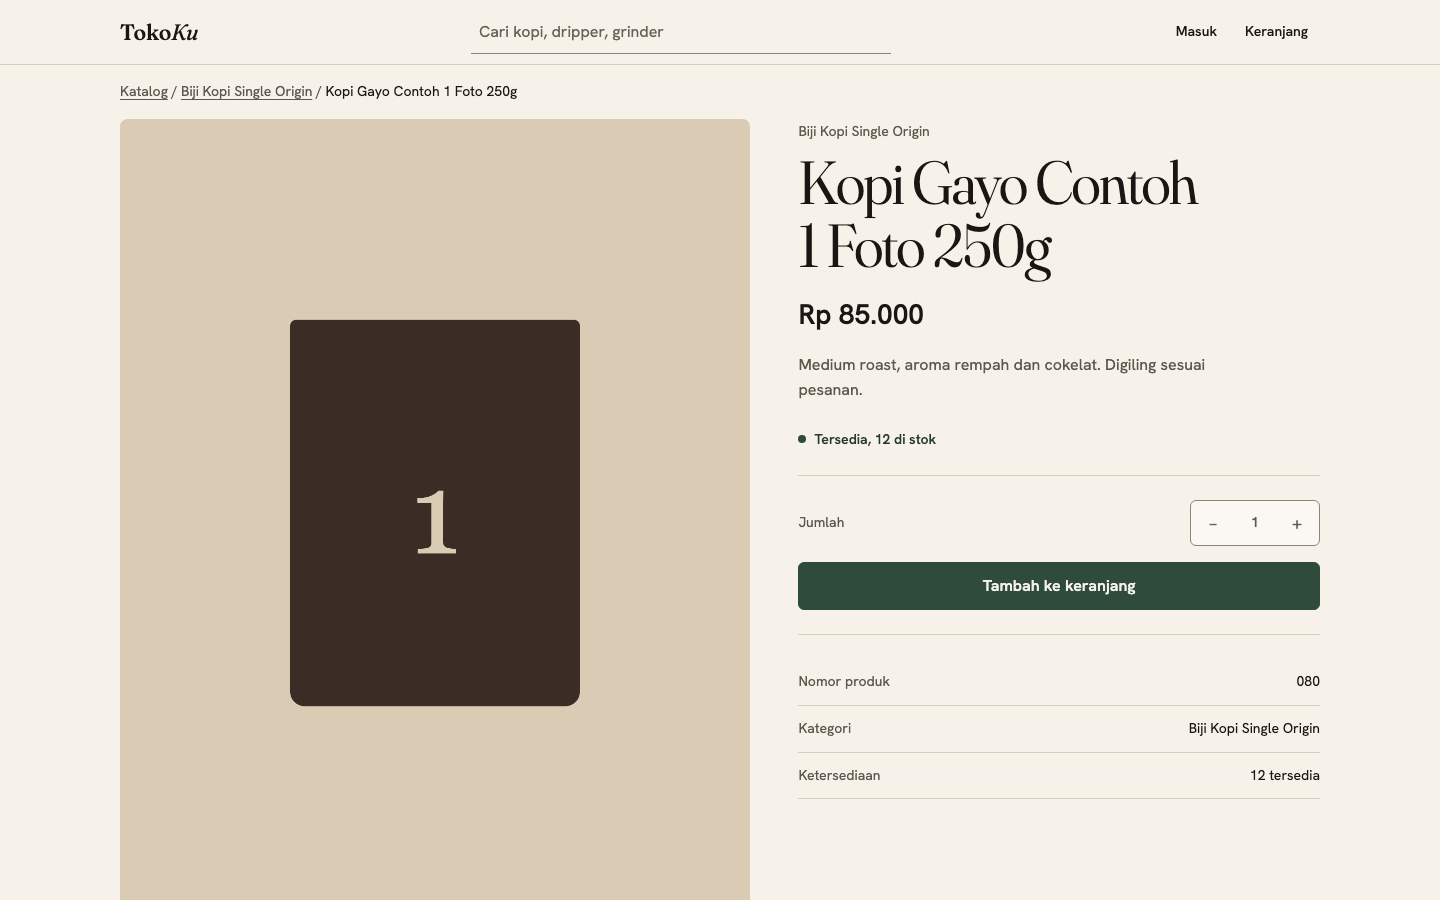
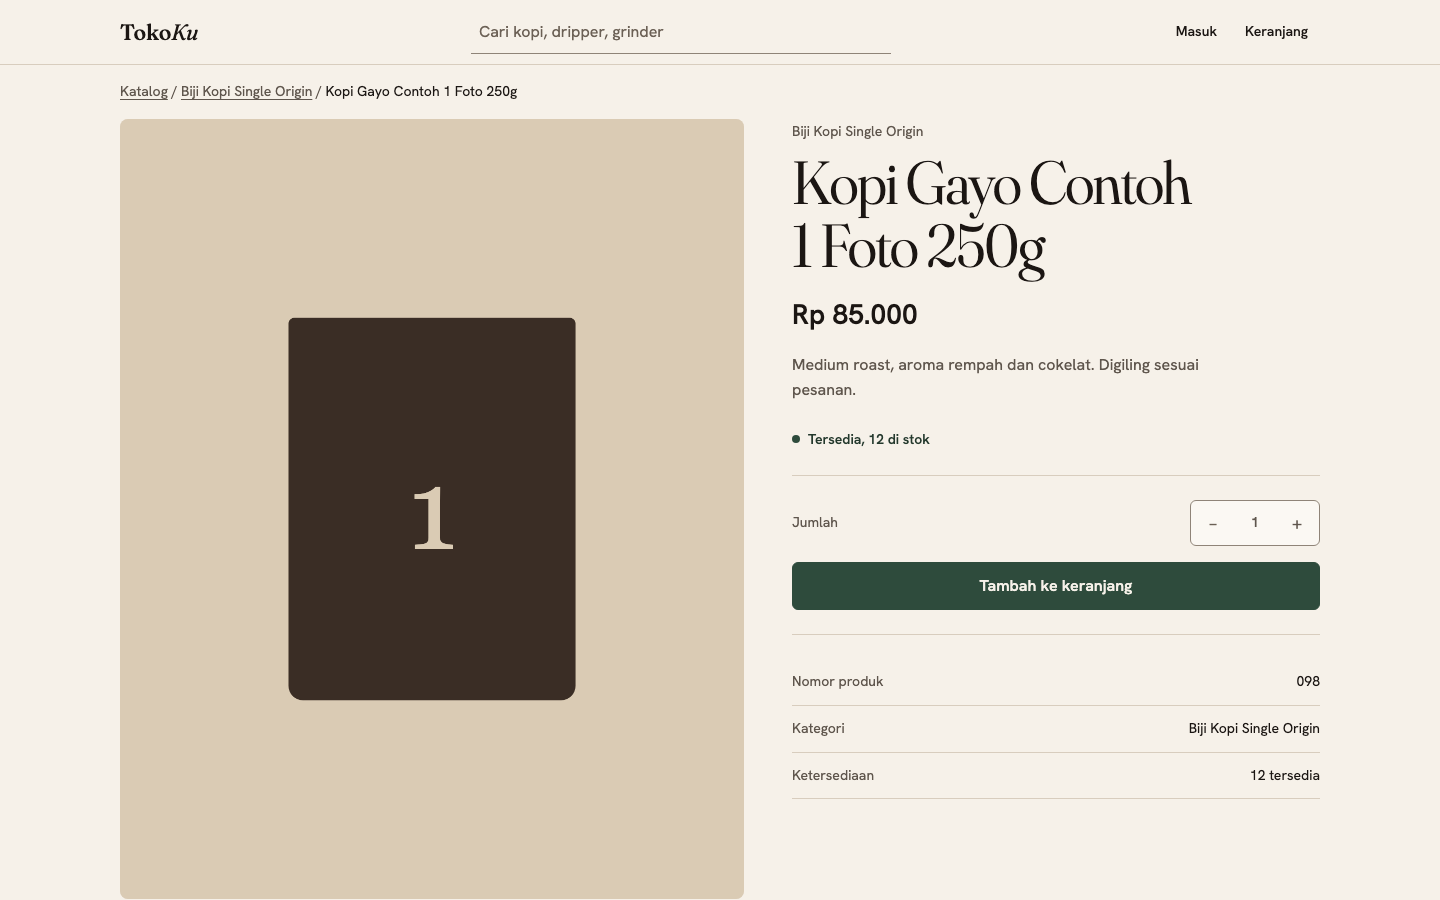
docs(design): catatan Putaran 3 dengan ukuran terukur dan screenshot sesudah baru

diff --git a/docs/DESIGN.md b/docs/DESIGN.md
@@ -183,8 +183,16 @@ Masalah yang diperbaiki: foto terasa kecil saat produk dibuka, dan produk dengan
 
 - **Rasio 4:5 di semua lebar**, sama dengan kartu katalog dan dengan potongan Cloudinary (`c_fill,ar_4:5`). Rasio 1:1 di ponsel dari Putaran 2 dihapus, karena foto 4:5 dari server terpotong lagi di kotak 1:1.
 - **Ponsel (< 640px):** foto selebar layar penuh tanpa gutter dan tanpa radius, 390×488 di layar 390 (sebelumnya 358×358). Lebar 640 sampai 1023px: galeri dibatasi 560px.
-- **Desktop (≥ 1024px):** dua kolom, galeri ±56% lebar konten (58% dari lebar setelah jarak antarkolom), kolom info mengisi sisanya, keduanya lengket. Lebar galeri dibatasi tinggi layar supaya foto 4:5 tidak pernah lebih tinggi dari area di bawah header: `--gw = min(58% × (konten − jarak), (100dvh − header − 48px) × 0,8)`. Hasilnya 668×835 di layar setinggi 950px ke atas, dan 630×788 di 1440×900 (sebelumnya 579×723).
-- **Kompromi yang disadari:** di layar setinggi 900px, foto 4:5 sudah memakai seluruh tinggi yang tersedia, jadi deret thumbnail berada tepat di bawah lipatan. Penanda "1 / 5" dan tombol panah tetap terlihat di atas foto. Bila galeri lebih tinggi dari layar, posisi lengketnya menempel ke tepi bawah supaya thumbnail tetap terjangkau.
+- **Desktop (≥ 1024px):** dua kolom, keduanya lengket. Dengan lebih dari satu foto, kolom thumbnail vertikal (72px + jarak 12px) berada di kiri foto utama, setinggi foto utama; kolom info mengisi sisanya. `--gw` adalah lebar foto utama, `--th` kolom thumbnail (0 untuk satu foto, 84px untuk banyak foto): `--gw = min(share × (konten − jarak − th), (100dvh − header − 56px) × 0,8)`, `share` 0,58 untuk satu foto dan 0,6 untuk banyak foto. Angka 56px = jarak 48px ditambah 8px untuk breadcrumb, supaya foto 4:5 selesai di atas tepi bawah layar.
+- **Ukuran terukur di 1440×900** (Playwright `boundingBox`, px CSS, dicetak oleh `round3-shots.spec.ts` sebagai `UKURAN`; spec gagal bila foto utama banyak foto < 620px):
+
+  | | foto utama | thumbnail | kolom info |
+  |---|---|---|---|
+  | 1 foto | x 120, y 118,7, **624 × 780** | tidak ada | x 792, lebar 528 |
+  | 5 foto | x 204, y 118,7, **624 × 780** | kolom x 120, 72 × 780; tiap thumbnail 64 × 80, yang pertama di x 124, y 122,7 | x 876, lebar 444 |
+
+  Foto utama berakhir di y 898,7 (≤ 900), jadi tidak terpotong lipatan. Sebelumnya (thumbnail di bawah) 630 × 788 yang berakhir di y 907; pada percobaan pertama thumbnail ke samping dengan `share` 0,58 foto utama menyusut ke 584 × 730, lebih kecil dari sebelumnya, jadi `share` naik ke 0,6 dan batas tinggi dikoreksi. Harga yang dibayar: kolom info 444px (sebelumnya 484px).
+- **Kompromi yang disadari:** panah dan penanda "1 / 5" berada di dalam foto utama dan tetap terlihat; seluruh thumbnail terlihat tanpa menggulir. Bila produk punya lebih banyak thumbnail daripada tinggi foto (layar pendek, 6 foto di 1100×600), kolom menggulir sendiri dan mengikuti foto aktif; halaman tidak ikut bergulir.
 - **Tanpa layout shift:** kotak 4:5 memakai `aspect-ratio`, gambar diposisikan absolut di dalamnya, atribut `width`/`height` diisi, dan latar memakai nada `--tone-1` selama gambar dimuat.
 - **`object-fit: cover`** di panggung dan thumbnail (potongan tengah, sama dengan kartu). Lightbox memakai `contain` supaya gambar tidak dipotong lagi.
 
@@ -192,7 +200,7 @@ Masalah yang diperbaiki: foto terasa kecil saat produk dibuka, dan produk dengan
 
 - **CSS scroll-snap**, tanpa pustaka carousel: lintasan `overflow-x: auto` dengan `scroll-snap-type: x mandatory`, satu foto per langkah. Geser dengan jari atau trackpad berjalan bawaan.
 - **Tombol sebelumnya/berikutnya** hanya di desktop: 44px, hairline, latar paper tembus, opasitas 0,72 dan penuh saat panggung disorot atau tombol difokus. Di ujung ditandai `aria-disabled` (bukan `disabled`, supaya fokus keyboard tidak hilang) dan dipudarkan. Tidak berputar dari foto terakhir ke pertama.
-- **Thumbnail** di bawah panggung (desktop): 64×80, foto aktif diberi bingkai ink 2px dan `aria-current`, yang lain sedikit dipudarkan. Di ponsel thumbnail dan panah disembunyikan; cukup penanda "2 / 5".
+- **Thumbnail** di kolom vertikal sebelah kiri panggung (desktop): 64×80, foto aktif diberi bingkai ink 2px dan `aria-current`, yang lain sedikit dipudarkan. Di ponsel thumbnail dan panah disembunyikan; cukup penanda "2 / 5".
 - **Penanda posisi** "2 / 5" di sudut kanan bawah foto, `output` dengan `aria-live`.
 - **Keyboard:** panah kiri/kanan saat fokus berada di dalam galeri atau lightbox.
 - **Pindah lewat tombol, thumbnail, dan keyboard tidak dianimasikan** (MOTION 1); geser dengan jari tetap mengikuti gerak bawaan. Ini juga membuat `prefers-reduced-motion` terpenuhi tanpa cabang khusus.
@@ -201,11 +209,11 @@ Masalah yang diperbaiki: foto terasa kecil saat produk dibuka, dan produk dengan
 
 ## R3-3. Lightbox
 
-Klik foto membuka tampilan layar penuh di atas ink, dengan tombol "Tutup" (teks, bukan ikon), panah, dan penanda posisi. Memakai **`<dialog>` bawaan** seperti `ConfirmDialog`: fokus terkurung, Escape menutup, fokus kembali ke foto pemicu. Klik di luar gambar juga menutup. Radix Dialog tidak ada di project, jadi tidak ditambahkan. Navigasi di dalam lightbox tidak menggeser galeri di belakangnya, sehingga fokus kembali tepat ke foto yang tadi diklik.
+Klik foto membuka tampilan layar penuh di atas ink, dengan tombol "Tutup" (teks, bukan ikon), panah, dan penanda posisi. Memakai **`<dialog>` bawaan** seperti `ConfirmDialog`: fokus terkurung, Escape menutup, fokus kembali ke foto pemicu. Klik di luar gambar juga menutup. Radix Dialog tidak ada di project, jadi tidak ditambahkan. Foto tampil utuh dengan rasio aslinya (tegak maupun mendatar), tidak pernah lebih besar dari layar. Cubit dua jari memperbesar sampai 4×, geser saat diperbesar, ketuk dua kali memperbesar 2,5× atau mengembalikan; dikerjakan `ZoomImage.tsx` dengan Pointer Events tanpa pustaka. Navigasi di dalam lightbox tidak menggeser galeri di belakangnya, sehingga fokus kembali tepat ke foto yang tadi diklik.
 
 ## R3-4. Ukuran gambar
 
-- Ukuran bernama keempat di backend: **`LARGE` 1600px** (`f_auto,q_auto,c_fill,ar_4:5,w_1600`), dikirim sebagai `largeUrl`. Dipakai lightbox dan layar rapat piksel (panggung 630 sampai 668px butuh lebih dari 960px di layar 2x).
+- Ukuran bernama keempat di backend: **`LARGE` 1600px** (`f_auto,q_auto,c_limit,w_1600,h_1600`, tanpa potong 4:5, rasio asli), dikirim sebagai `largeUrl`. Dipakai lightbox dan layar rapat piksel (panggung 624 sampai 668px butuh lebih dari 960px di layar 2x).
 - `srcset` panggung: 160w, 480w, 960w, 1600w dengan `sizes="(min-width: 1024px) min(56vw, 670px), 100vw"`. Lightbox: 480w, 960w, 1600w dengan `sizes="(min-aspect-ratio: 4/5) 80vh, 100vw"`.
 - Foto pertama `loading="eager"` dan `fetchpriority="high"`; foto lain `loading="lazy"`. Gambar lightbox baru diminta saat dibuka.
 
@@ -218,11 +226,14 @@ Klik foto membuka tampilan layar penuh di atas ink, dengan tombol "Tutup" (teks,
 1. Versi pertama membuat galeri selebar 58% tanpa batas tinggi: foto 835px terpotong lipatan di 1440×900. Diperbaiki dengan batas tinggi layar di `--gw`.
 2. Penanda "1 / 5" semula disembunyikan di desktop karena thumbnail sudah menandai posisi. Dengan thumbnail di bawah lipatan pada layar 900px, jumlah foto jadi tidak terlihat. Penanda sekarang tampil di semua lebar.
 3. Halaman ponsel bisa digulir ke samping sejauh lima foto, karena teks khusus pembaca layar diposisikan absolut di luar lintasan. Diperbaiki, dan e2e sekarang memeriksa tidak ada overflow horizontal.
-4. Belum diperbaiki: di ponsel, lightbox menampilkan foto selebar yang sama dengan halaman (layar tegak membatasi lebar), jadi manfaatnya di ponsel kecil.
+4. Lightbox semula memotong foto 4:5 dan tidak bisa diperbesar di ponsel. Diperbaiki: `LARGE` tidak dipotong, foto tampil utuh, ada zoom cubit dan ketuk dua kali.
+5. Thumbnail di bawah foto jatuh di bawah lipatan 900px. Dipindah ke kolom kiri; pemindahan pertama menyusutkan foto utama (584px), lalu `share` dan batas tinggi dikoreksi sampai 624px.
+6. Screenshot ponsel gagal di langkah "tunggu gambar": selector `.gallery img` `.first()` mengenai `<img>` thumbnail yang `display:none` di ponsel (thumbnail ada lebih dulu di DOM). Salah selector di spec, bukan bug aplikasi; sekarang `.gallery .track img`.
 
 ## Alasan keputusan Putaran 3 (satu baris)
 
 - 4:5 di mana-mana: satu potongan untuk kartu, panggung, dan thumbnail, tanpa potong ganda.
 - Lebar dibatasi tinggi layar: foto yang utuh terlihat lebih berguna daripada foto lebih lebar yang terpotong lipatan.
 - scroll-snap dan `<dialog>` bawaan: nol dependensi baru, perilaku sentuh dan fokus dikerjakan browser.
-- `LARGE` tetap 4:5: satu rumus transformasi untuk semua ukuran, hemat kredit Cloudinary.
+- `LARGE` utuh (`c_limit`): lightbox harus menunjukkan foto apa adanya; tiga ukuran kecil tetap 4:5 agar kartu seragam, jadi tetap hanya empat variasi transformasi.
+- Kolom thumbnail di samping: semua thumbnail dan foto utama muat di 900px tanpa menggulir; biayanya kolom info 40px lebih sempit.
